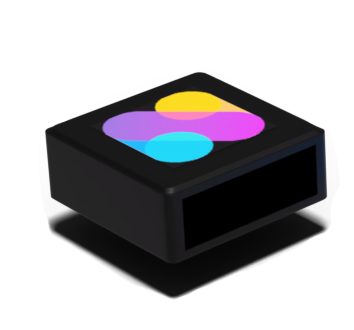
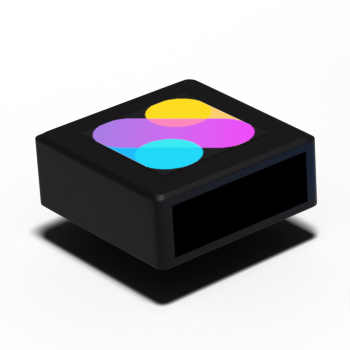
img tag updated for better res

diff --git a/src/components/home/Stats.tsx b/src/components/home/Stats.tsx
@@ -1,7 +1,6 @@
 /* eslint-disable react/function-component-definition */
 import { useQuery } from '@tanstack/react-query'
 import { BigNumber } from 'ethers'
-import Image from 'next/image'
 import { fetchConfig, fetchStatistics } from '@/client/api/queryFunctions'
 import { weiToEth } from '@/utils/web3'
 import { toFixedNoTrailingZeros } from '@/utils/decimals'
@@ -54,11 +53,12 @@ export default function Stats() {
                 </div>
 
                 <div className="flex justify-center pt-3 lg:pt-20">
-                  <Image
+                  {/*  eslint-disable-next-line @next/next/no-img-element */}
+                  <img
                     src="/images/dappnode-box.png"
                     alt="Solo staking dappnode"
-                    width={250}
-                    height={250}
+                    width="250"
+                    height="250"
                   />
                 </div>
               </div>
